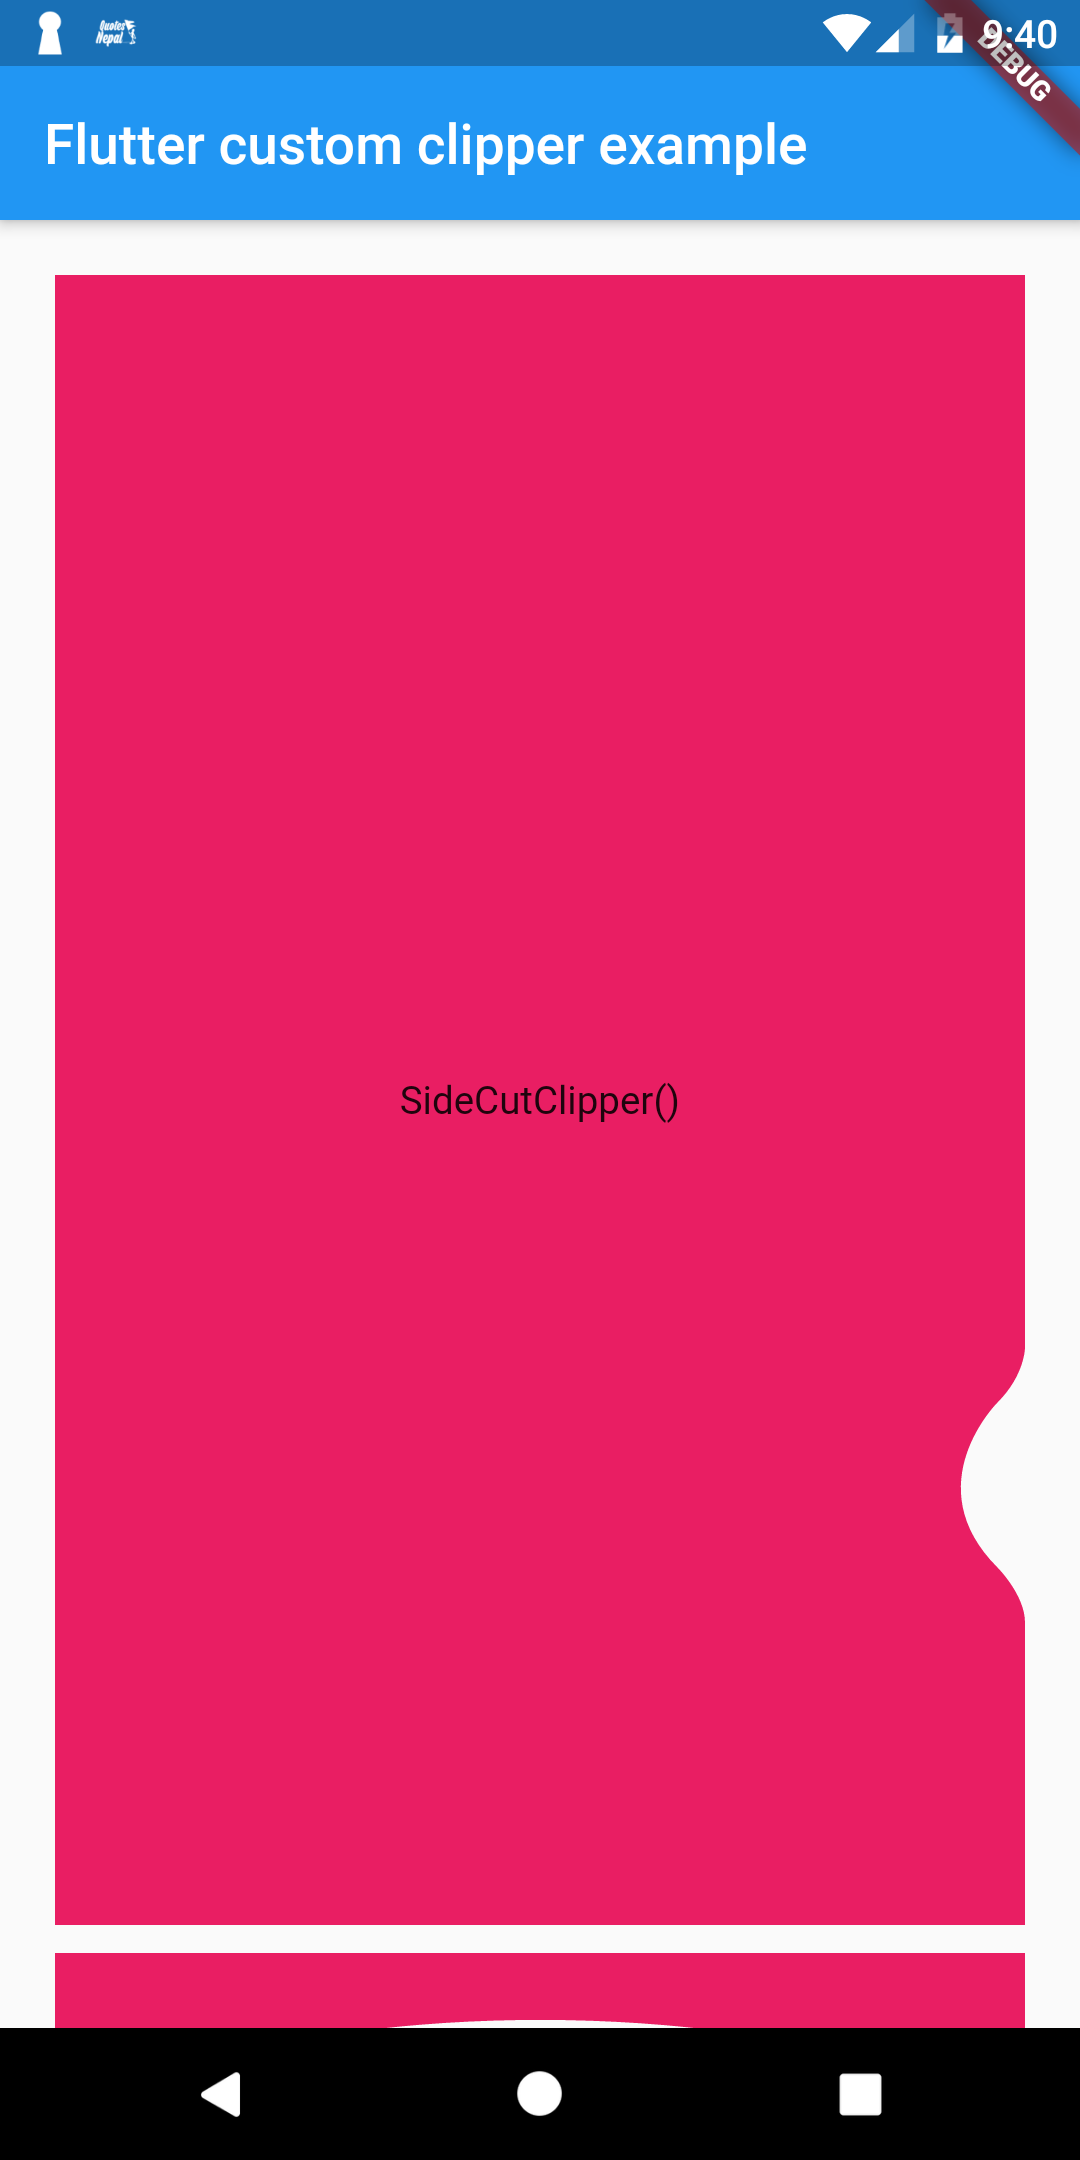
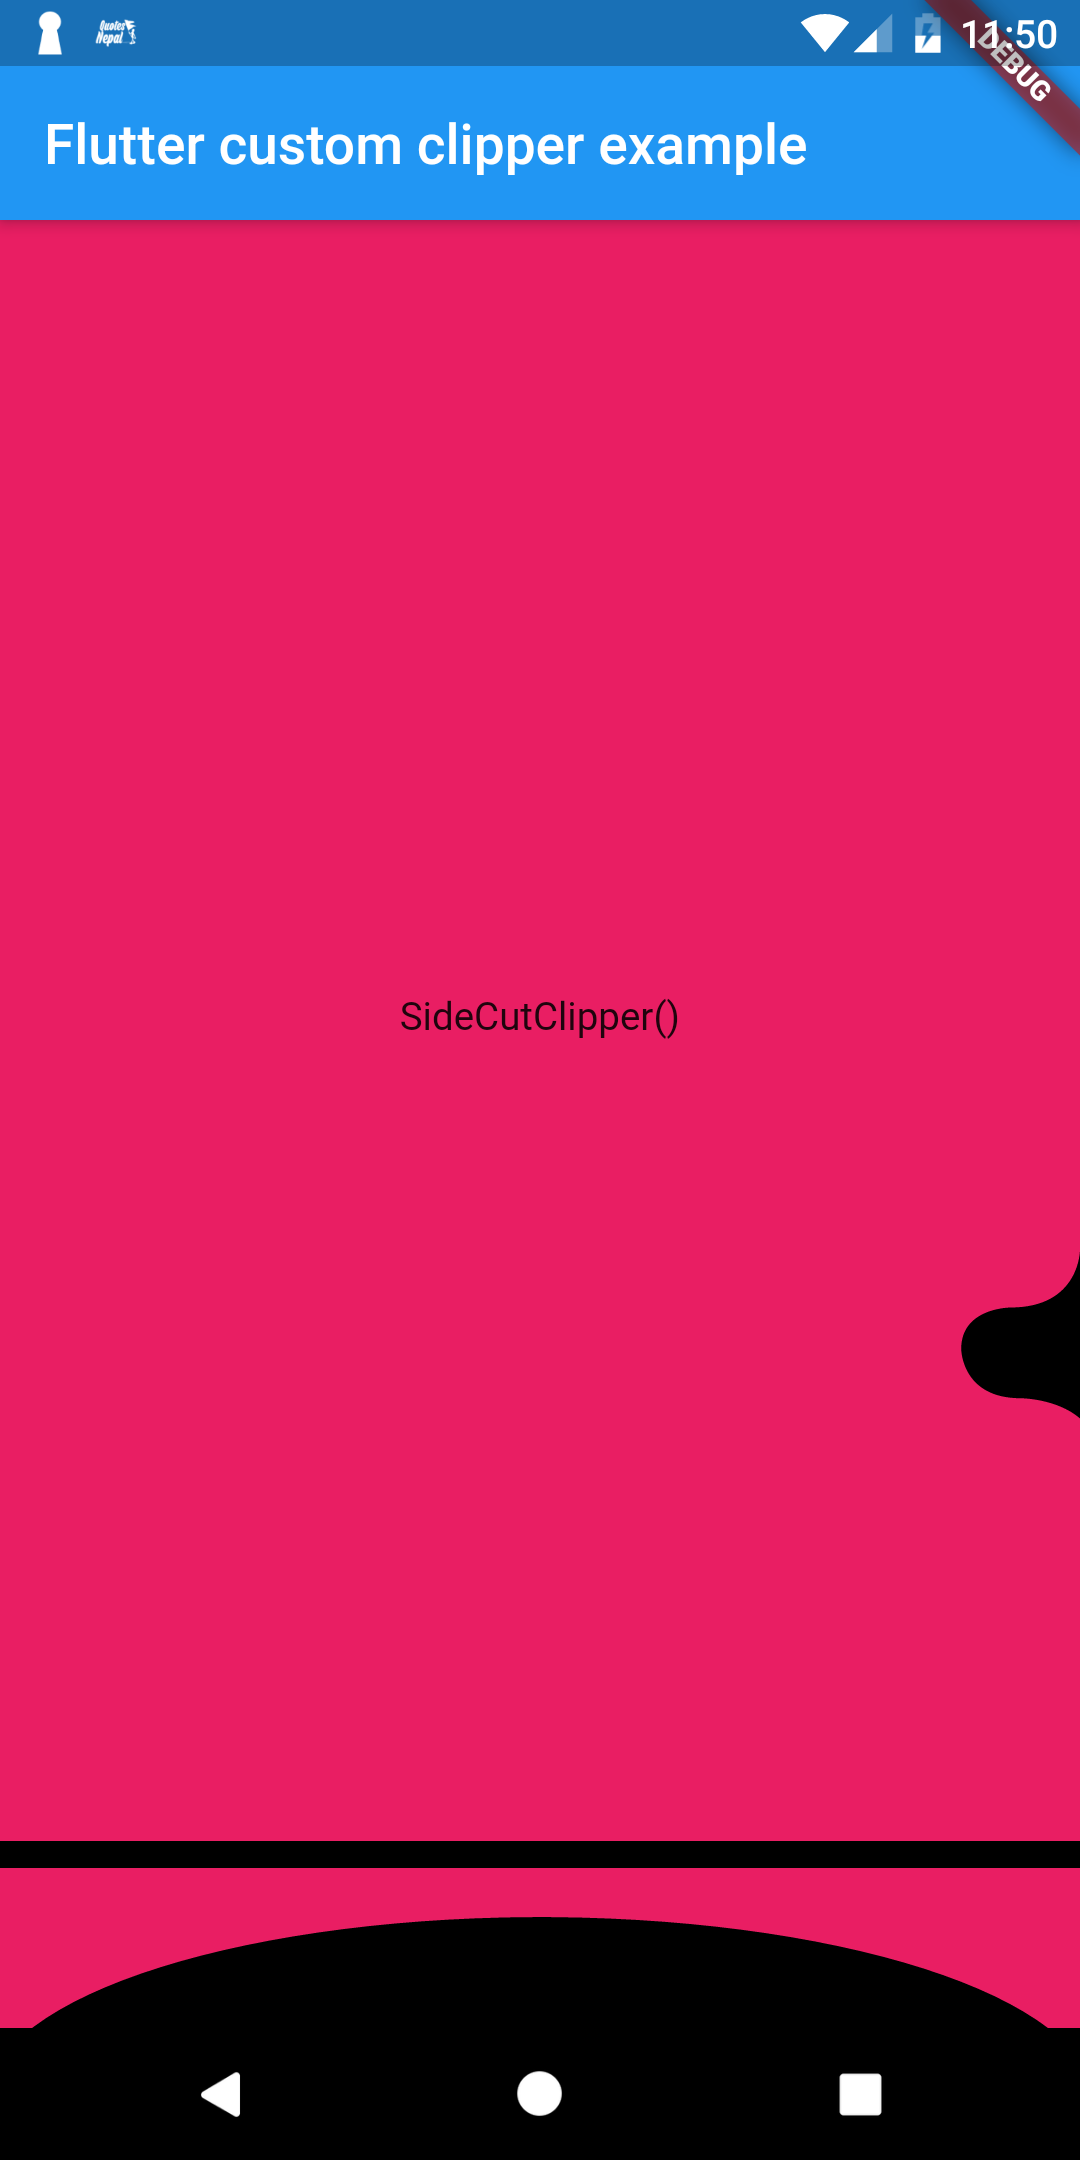
modified sidecut clipper

Changed region(s): [[0.0, 0.0931, 1.0, 0.9616], [0.3667, 0.4653, 0.6417, 0.5273], [0.7333, 0.0, 0.9472, 0.031]]

diff --git a/lib/src/side_cut_clipper.dart b/lib/src/side_cut_clipper.dart
@@ -1,27 +1,72 @@
 import 'package:flutter/material.dart';
 
 class SideCutClipper extends CustomClipper<Path> {
-    final double depth ;
-    final double borderadius ;
-  SideCutClipper({this.borderadius=10,this.depth=40});
+  //play with scals to get more clear versions
   @override
   Path getClip(Size size) {
+    double xFactor = 18, yFactor = 15;
     double height = size.height;
-    double width = size.width;
-    double cut = height - height / 3;
-    double inDepth = width - depth;
-
+    double startY = (height - height / 3) - yFactor;
+    double xVal = size.width;
+    double yVal = 0;
     final path = Path();
-    // path(width,height)
-    path.lineTo(width, 0);
-    path.lineTo(width, cut - borderadius);
-    path.cubicTo(width, cut - borderadius, width, cut, width - borderadius,
-        cut + borderadius);
-    path.cubicTo(width - borderadius, cut + borderadius, inDepth,
-        cut + depth , width-borderadius, cut + 2*depth-borderadius);
-    path.cubicTo(width - borderadius, cut + 2*depth - borderadius, width,
-        cut + 2*depth, width, cut + 2*depth + borderadius);
-    path.lineTo(width, height);
+
+    path.lineTo(xVal, yVal);
+
+    yVal = startY;
+    path.lineTo(xVal, yVal);
+
+    double scale = 1.4;
+    path.cubicTo(xVal, yVal, xVal, yVal + yFactor * scale,
+        xVal - xFactor * scale, yVal + yFactor * scale);
+    xVal = xVal - xFactor * scale;
+    yVal = yVal + yFactor * scale;
+
+    double scale1 = 1;
+    path.cubicTo(xVal, yVal, xVal - xFactor * scale1, yVal,
+        xVal - scale1 * xFactor, yVal + yFactor * scale1);
+    xVal = xVal - scale1 * xFactor;
+    yVal = yVal + scale1 * yFactor;
+    double scale2 = 1.2;
+    path.cubicTo(xVal, yVal, xVal, yVal + yFactor * scale2,
+        xVal + xFactor * scale2, yVal + yFactor * scale2);
+    xVal = xVal + xFactor * scale2;
+    yVal = yVal + yFactor * scale2;
+
+    scale = 1.6;
+
+    path.cubicTo(xVal, yVal, xVal + xFactor * scale, yVal,
+        xVal + xFactor * scale, yVal + yFactor * scale);
+    xVal = xVal + xFactor * scale;
+    yVal = yVal + yFactor * scale;
+
+//need to recreate a better later
+    //first point in curve
+    // double test = 2.2;
+    // path.cubicTo(xVal, yVal, xVal, yVal + yFactor * test, xVal - xFactor * test,
+    //     yVal + yFactor * test);
+    // xVal = xVal - xFactor * test;
+    // yVal = yVal + yFactor * test;
+
+    // test = 1;
+    // path.cubicTo(xVal, yVal, xVal - xFactor * test, yVal, xVal - test * xFactor,
+    //     yVal + yFactor * test);
+    // xVal = xVal - test * xFactor;
+    // yVal = yVal + test * yFactor;
+
+    // path.cubicTo(xVal, yVal, xVal, yVal + yFactor * test, xVal + xFactor * test,
+    //     yVal + yFactor * test);
+    // xVal = xVal + xFactor * test;
+    // yVal = yVal + yFactor * test;
+
+    // test = 2.2;
+
+    // path.cubicTo(xVal, yVal, xVal + xFactor * test, yVal, xVal + xFactor * test,
+    //     yVal + yFactor * test);
+    // xVal = xVal + xFactor * test;
+    // yVal = yVal + yFactor * test;
+
+    path.lineTo(xVal, height);
     path.lineTo(0, height);
     path.close();
     return path;
